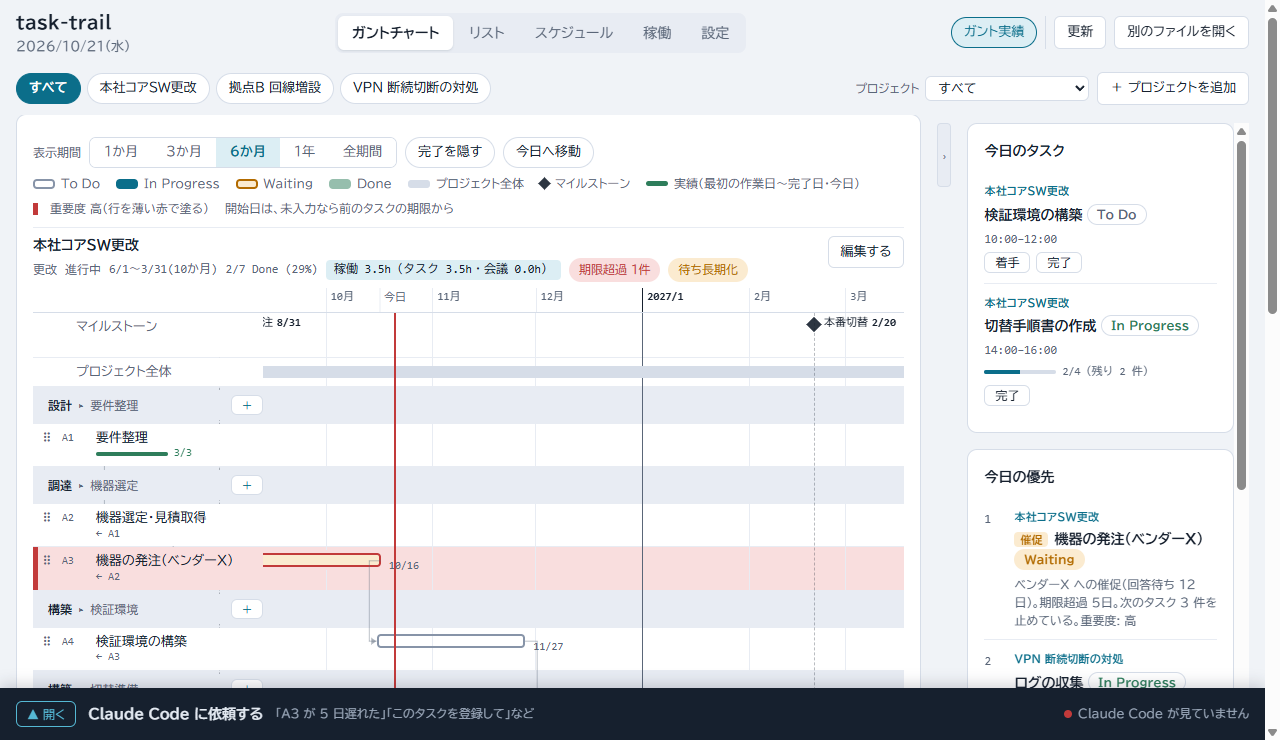
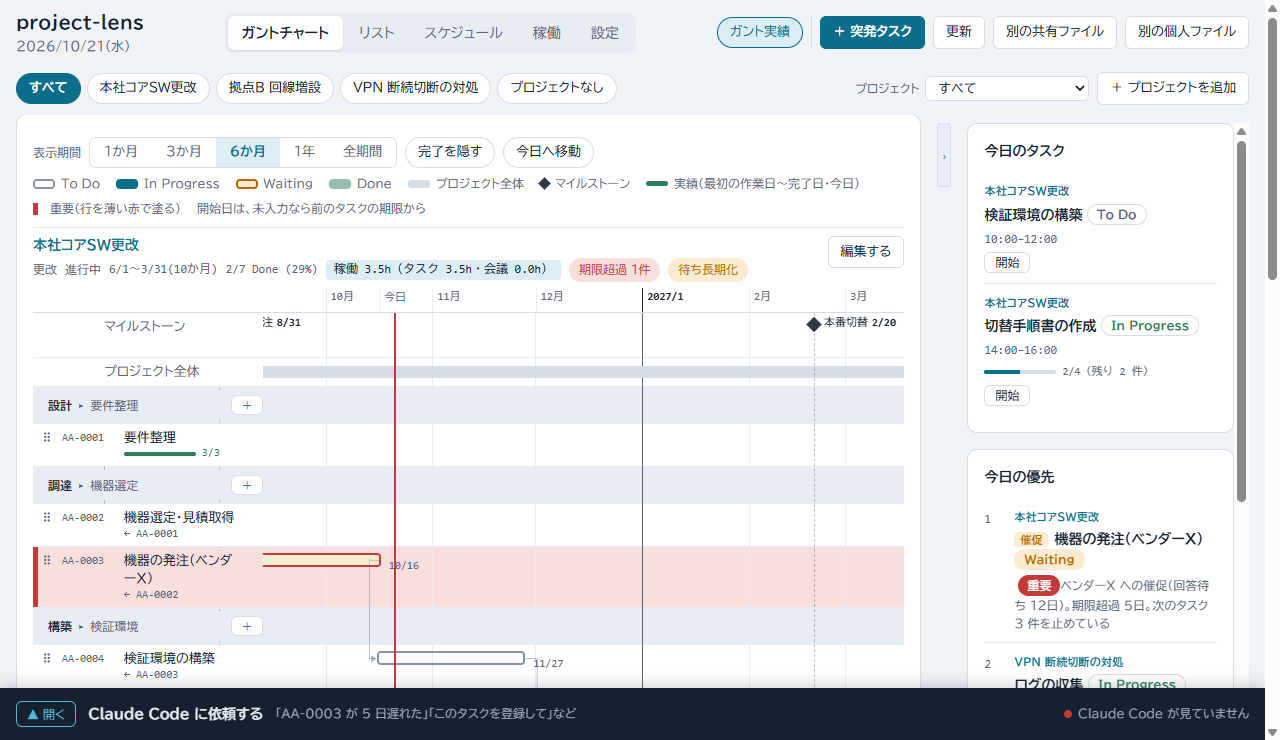
feat: 今日のタスクの「着手」「完了」を、実績を記録する「開始」「終了」に替える

diff --git a/plugins/project-lens/assets/project-lens.html b/plugins/project-lens/assets/project-lens.html
@@ -1179,7 +1179,7 @@ return { taskStart, ganttRows, ganttLayout, timeTicks, projectProgress, taskFlag
 })();
 
 /* src/core/sessions.js */
-const { LAST_END, allSessions, sessionKind, addSession, moveSession, resizeSession, confirmSession, removeSession, taskActual, runningPlanned, futurePlanned } = (() => {
+const { LAST_END, allSessions, sessionKind, addSession, moveSession, resizeSession, confirmSession, removeSession, taskActual, runningActual, runningPlanned, futurePlanned } = (() => {
 // 作業枠（予定／実績）の規則。枠は「作業した時間の記録」で、タスクの状態は変えない。すべて不変更新。
 
 
@@ -1276,6 +1276,16 @@ function taskActual(data, taskId) {
   return { hours: minutes / 60, firstDate: actual.length ? actual.map((s) => s.date).sort()[0] : null, count: ss.length };
 }
 
+/**
+ * 実行中の実績の枠（今日のタスクの「開始」で作り、「終了」で終える枠）。今日の、このタスクの実績の枠のうち開始が最も遅いもので、
+ * 開始 ≦ 今 < 終了のときだけ、その枠を返す（ほかは null）。実行中かどうかはデータに持たず、時刻から決める
+ */
+function runningActual(data, taskId, now) {
+  const t = data.tasks.find((x) => x.id === taskId);
+  const last = (t?.sessions ?? []).filter((s) => s.kind === "actual" && s.date === now.date).sort((a, b) => a.start.localeCompare(b.start)).at(-1);
+  return last && last.start <= now.time && now.time < last.end ? last : null;
+}
+
 /** 進行中（開始済みで未終了）の予定枠の ID。タスクを完了にしても残す枠（futurePlanned に含めない） */
 function runningPlanned(data, taskId, now) {
   const t = data.tasks.find((x) => x.id === taskId);
@@ -1290,7 +1300,7 @@ function futurePlanned(data, taskId, now) {
   return (t?.sessions ?? []).filter((s) => s.kind === "planned" && notStarted(s)).map((s) => s.id);
 }
 
-return { LAST_END, allSessions, sessionKind, addSession, moveSession, resizeSession, confirmSession, removeSession, taskActual, runningPlanned, futurePlanned };
+return { LAST_END, allSessions, sessionKind, addSession, moveSession, resizeSession, confirmSession, removeSession, taskActual, runningActual, runningPlanned, futurePlanned };
 })();
 
 /* src/core/impact.js */
@@ -2479,7 +2489,7 @@ return { depPath, depMarkup, drawDeps, focusDeps };
 })();
 
 /* src/ui/edit.js */
-const { predecessorCandidates, updateTask, addChecklistItem, updateChecklistItem, removeChecklistItem, moveChecklistItem, checkAllChecklist, newChecklist, updateProject, addMilestone, updateMilestone, deleteMilestone, moveMilestone, moveTaskDates, addPredecessor, moveTask, moveToProject, moveProjectDates, nextProjectId, nextTaskId, spawnNextRepeat, duplicateTask, addTaskQuick, addUrgentTask, addTask, deleteTask, updateSettings, addHoliday, holidayRangeDays, addHolidayRange, removeHoliday, addWorkday, removeWorkday, addProject, deleteProject } = (() => {
+const { predecessorCandidates, updateTask, addChecklistItem, updateChecklistItem, removeChecklistItem, moveChecklistItem, checkAllChecklist, newChecklist, updateProject, addMilestone, updateMilestone, deleteMilestone, moveMilestone, moveTaskDates, addPredecessor, moveTask, moveToProject, moveProjectDates, nextProjectId, nextTaskId, spawnNextRepeat, duplicateTask, addTaskQuick, addUrgentTask, startActual, stopActual, addTask, deleteTask, updateSettings, addHoliday, holidayRangeDays, addHolidayRange, removeHoliday, addWorkday, removeWorkday, addProject, deleteProject } = (() => {
 // 画面からの編集（追加・削除・更新）。すべて不変更新で、不正な入力は例外にする（呼び出し側が理由を表示する）。
 
 
@@ -2865,6 +2875,37 @@ function addUrgentTask(data, { title, projectId, date, start, minutes }) {
   return { data: r.data, id: t.id, ...(r.warning && { warning: r.warning }) };
 }
 
+/**
+ * 今日のタスクの「開始」: 今の時刻（分）から、このタスクの実績の枠を作り、To Do・Waiting なら In Progress にする（updateTask の規則で、待ち先は外れる）。
+ * 今の時刻にかかる、このタスクの予定の枠があれば、その枠を実績にして開始を今にする（終了は予定のまま）。無ければ新しい実績の枠を作る。
+ * 実行中（runningActual）の目印は「終了が今より後」なので、新しい枠の終了は仮に、その日の次の枠・会議（参加しないものを除く）の開始か 23:59 の早いほう（最短 15 分）にする。
+ * 置けないとき（ほかの枠との重なり・休みの日・23:59 を超える）と、すでに実行中のときは Error
+ */
+function startActual(data, taskId, now) {
+  if (runningActual(data, taskId, now)) throw new Error(`${taskId} の実績は、すでに開始しています`);
+  const toActual = (d, sid, patch) => ({ ...d, tasks: d.tasks.map((t) => (t.id === taskId ? { ...t, sessions: t.sessions.map((s) => (s.id === sid ? { ...s, ...patch, kind: "actual" } : s)) } : t)) });
+  const inProgress = (d) => (["To Do", "Waiting"].includes(d.tasks.find((t) => t.id === taskId).status) ? updateTask(d, taskId, { status: "In Progress" }, now.date) : d);
+  // 今の時刻にかかる、このタスクの予定の枠があれば、新しい枠を作らず、その枠を実績にして開始を今にする（予定どおりに始めた、の形）
+  const own = (data.tasks.find((t) => t.id === taskId)?.sessions ?? []).find((s) => s.kind === "planned" && s.date === now.date && s.start <= now.time && now.time < s.end);
+  if (own) return { data: inProgress(toActual(data, own.id, { start: now.time })), sessionId: own.id };
+  const st = toMin(now.time);
+  const next = [...allSessions(data), ...(data.events ?? []).filter((m) => !m.skip)].filter((x) => x.date === now.date && toMin(x.start) > st).map((x) => toMin(x.start));
+  const end = Math.max(st + 15, Math.min(LAST_END, ...next));
+  const r = addSession(data, taskId, { date: now.date, start: now.time, end: toHHMM(end) }); // 23:59 を超える終了（24:00 以降）は、addSession が「終了は 23:59 まで」のエラーにする
+  if (r.error) throw new Error(r.error);
+  const sessionId = r.data.tasks.find((t) => t.id === taskId).sessions.at(-1).id;
+  return { data: inProgress(toActual(r.data, sessionId, {})), sessionId, ...(r.warning && { warning: r.warning }) };
+}
+
+/** 今日のタスクの「終了」: 実行中の実績の枠の終了を、今の時刻（分）にする。状態は変えない（完了は状態の欄で選ぶ）。実行中が無い・開始と同じ時刻は Error */
+function stopActual(data, taskId, now) {
+  const cur = runningActual(data, taskId, now);
+  if (!cur) throw new Error(`${taskId} に、実行中の実績の枠がありません`);
+  if (now.time <= cur.start) throw new Error("開始と同じ時刻には終了できません（1 分以上たってから押してください）");
+  const tasks = data.tasks.map((t) => (t.id === taskId ? { ...t, sessions: t.sessions.map((s) => (s.id === cur.id ? { ...s, end: now.time } : s)) } : t));
+  return { data: { ...data, tasks }, start: cur.start, end: now.time, minutes: toMin(now.time) - toMin(cur.start) };
+}
+
 function addTask(data, task) {
   if (!data.projects.some((p) => p.id === task.projectId)) throw new Error(`プロジェクト ${task.projectId} がありません`);
   const title = String(task.title ?? "").trim();
@@ -2990,7 +3031,7 @@ function deleteProject(data, projectId) {
   return { ...data, settings, events, ...(inbox ? { inbox } : {}), projects: data.projects.filter((p) => p.id !== projectId), tasks: data.tasks.filter((t) => t.projectId !== projectId) };
 }
 
-return { predecessorCandidates, updateTask, addChecklistItem, updateChecklistItem, removeChecklistItem, moveChecklistItem, checkAllChecklist, newChecklist, updateProject, addMilestone, updateMilestone, deleteMilestone, moveMilestone, moveTaskDates, addPredecessor, moveTask, moveToProject, moveProjectDates, nextProjectId, nextTaskId, spawnNextRepeat, duplicateTask, addTaskQuick, addUrgentTask, addTask, deleteTask, updateSettings, addHoliday, holidayRangeDays, addHolidayRange, removeHoliday, addWorkday, removeWorkday, addProject, deleteProject };
+return { predecessorCandidates, updateTask, addChecklistItem, updateChecklistItem, removeChecklistItem, moveChecklistItem, checkAllChecklist, newChecklist, updateProject, addMilestone, updateMilestone, deleteMilestone, moveMilestone, moveTaskDates, addPredecessor, moveTask, moveToProject, moveProjectDates, nextProjectId, nextTaskId, spawnNextRepeat, duplicateTask, addTaskQuick, addUrgentTask, startActual, stopActual, addTask, deleteTask, updateSettings, addHoliday, holidayRangeDays, addHolidayRange, removeHoliday, addWorkday, removeWorkday, addProject, deleteProject };
 })();
 
 /* src/ui/donecheck.js */
@@ -3245,12 +3286,12 @@ const PILL = { "To Do": "off", "In Progress": "ok", Waiting: "wait", Done: "done
 const IMP_BADGE = `<span class="impbadge">重要</span>`;
 const statusPill = (t) => `<span class="pill ${PILL[t.status] ?? "off"}">${esc(t.status)}</span>`;
 
-/** 着手（To Do・Waiting のとき）と完了（Done・Cancelled 以外）のボタン。今日のタスクが使う */
-function statusButtons(t) {
-  const btn = (status, label) => `<button class="btn" data-setstatus="${esc(t.id)}|${status}" aria-label="${esc(t.id)} を${label}にする">${label}</button>`;
-  const start = t.status === "To Do" || t.status === "Waiting" ? btn("In Progress", "着手") : "";
-  const done = !isClosed(t) ? btn("Done", "完了") : "";
-  return start || done ? `<span class="bb">${start}${done}</span>` : "";
+/** 実績を記録するボタン。実行中の実績の枠（runningActual）があれば「終了」、無ければ「開始」。今日のタスクの、終わっていないタスクの行に出す */
+function recordButton(data, t, now) {
+  const id = esc(t.id);
+  return runningActual(data, t.id, now)
+    ? `<span class="bb"><button class="btn" data-rec-end="${id}" aria-label="${id} の実績を終了する（今の時刻で枠を終える）">終了</button></span>`
+    : `<span class="bb"><button class="btn" data-rec-start="${id}" aria-label="${id} の実績を開始する（今の時刻から枠を作る）">開始</button></span>`;
 }
 
 /** Done・Cancelled にする前の確認（今日のタスクの行と、リストの状態の欄が使う）。
@@ -3275,15 +3316,17 @@ function todayList(data, today) {
 const todayTaskIds = (data, today) => todayList(data, today).map((r) => r.t.id);
 
 /** 今日のタスク。今日に枠が無ければ空文字
- *  @param opts.pendingDone  未来の予定の枠を解除する確認待ち { id, status, n }（その行に確認を出す） */
+ *  @param opts.pendingDone  未来の予定の枠を解除する確認待ち { id, status, n }（その行に確認を出す）
+ *  @param opts.now          {date, time} 現在時刻（「開始」「終了」のどちらを出すかに使う。省略は today の 00:00） */
 function renderTodayTasks(data, today, opts = {}) {
   const rows = todayList(data, today);
+  const now = opts.now ?? { date: today, time: "00:00" };
   if (!rows.length) return "";
   const items = rows.map(({ t, slots }) => {
     const proj = esc(data.projects.find((p) => p.id === t.projectId)?.name ?? (t.projectId == null ? "プロジェクトなし" : ""));
     const times = slots.map((s) => esc(`${s.start}–${s.end}`)).join("、");
     const ask = opts.pendingDone?.id === t.id ? doneAskHtml(opts.pendingDone) : "";
-    return `<li data-today="${esc(t.id)}"${isClosed(t) ? ' class="closed"' : ""}><span class="pj">${proj}</span><span class="t">${esc(t.title)} ${statusPill(t)}${isImportantMark(t) ? IMP_BADGE : ""}</span><span class="why mono">${times}</span>${isClosed(t) ? "" : checkMeterHtml(t, { remain: true })}${isClosed(t) ? "" : statusButtons(t)}${ask}</li>`;
+    return `<li data-today="${esc(t.id)}"${isClosed(t) ? ' class="closed"' : ""}><span class="pj">${proj}</span><span class="t">${esc(t.title)} ${statusPill(t)}${isImportantMark(t) ? IMP_BADGE : ""}</span><span class="why mono">${times}</span>${isClosed(t) ? "" : checkMeterHtml(t, { remain: true })}${isClosed(t) ? "" : recordButton(data, t, now)}${ask}</li>`;
   }).join("");
   return `<section class="panel todaytasks" aria-labelledby="h-td"><h2 id="h-td">今日のタスク</h2><ul class="rank tl">${items}</ul></section>`;
 }
@@ -4061,7 +4104,7 @@ function renderProjects(data, today, opts = {}) {
   // チップはプロジェクトの数だけ並ぶので、1 行に収めて横にスクロールする(折り返すと、固定の行が高くなり、表が見えなくなる)。プロジェクト名のプルダウンと追加ボタンは、スクロールの外
   return `<div class="toolbar ptool"><div class="chips-row" role="group" aria-label="プロジェクトで絞り込み">${chips}</div>
     <div class="ptool-end">${pick}${addBtn}</div></div>
-    <div class="cols${showPrio ? "" : " one"}">${body}${renderSideToggle(showPrio)}${showPrio ? renderSide(data, today, { sched: false, pendingDone: opts.pendingDone }) : ""}</div>${pop}`;
+    <div class="cols${showPrio ? "" : " one"}">${body}${renderSideToggle(showPrio)}${showPrio ? renderSide(data, today, { sched: false, pendingDone: opts.pendingDone, now: opts.now }) : ""}</div>${pop}`;
 }
 
 return { statusCellHtml, renderProjects };
@@ -4253,7 +4296,7 @@ function renderSchedule(data, today, opts) {
     <div class="summary"><span>実績 <b class="mono">${hours.toFixed(1)}時間</b></span><span>予定 <b class="mono">${planned}件</b></span>${unconf ? `<span class="pill wait">未確認 ${unconf}件（作業枠 ${unconfS}・会議 ${unconfM}）</span><button class="btn" data-confirmall>未確認をすべて実績にする</button>` : ""}<button class="btn danger" data-delsel ${delOk ? "" : "disabled"}>${delLabel}</button></div>`;
   const et = selSess && opts.taskEdit ? data.tasks.find((t) => t.id === opts.taskEdit.id) : null; // 編集欄は、表示中の枠を選んでいる間だけ出す（枠を選ぶと、そのタスクの編集欄になる）
   const editPanel = et ? renderTaskEditPanel(data, opts.taskEdit, statusCellHtml(et, { ...opts, todayIds: opts.showPrio === false ? new Set() : new Set(todayTaskIds(data, today)) }, taskFlags(et, today, data.settings).includes("overdue"))) : "";
-  return `<div class="cols${opts.showPrio === false ? " one" : ""}"><section class="panel">${nav}<div id="mtgslot">${meetingForm(data, { mtgDraft: opts.mtgDraft, selMtg: selMtg?.id })}${urgentForm(data, opts.urgentDraft)}${editPanel}</div><div id="calslot">${renderCalendar(data, today, calOpts)}</div></section>${renderSideToggle(opts.showPrio !== false)}${opts.showPrio === false ? "" : renderSide(data, today, { sched: true, pendingDone: opts.pendingDone })}</div>`;
+  return `<div class="cols${opts.showPrio === false ? " one" : ""}"><section class="panel">${nav}<div id="mtgslot">${meetingForm(data, { mtgDraft: opts.mtgDraft, selMtg: selMtg?.id })}${urgentForm(data, opts.urgentDraft)}${editPanel}</div><div id="calslot">${renderCalendar(data, today, calOpts)}</div></section>${renderSideToggle(opts.showPrio !== false)}${opts.showPrio === false ? "" : renderSide(data, today, { sched: true, pendingDone: opts.pendingDone, now })}</div>`;
 }
 
 
@@ -4433,7 +4476,7 @@ function renderBody() {
   const { date: today } = clock();
   if (!S.data) return startScreen();
   if (S.screen === "gantt" || S.screen === "list") {
-    return renderProjects(S.data, today, { filter: S.filter, view: S.screen, window: S.gwin, hideDone: S.hideDone, askDel: S.askDel, askDelProject: S.askDelProject, pendingWait: S.pendingWait, pendingDone: S.pendingDone, checkOpen: S.checkOpen, addAt: S.addAt, tpop: S.screen === "gantt" ? S.tpop : null, showPrio: S.prefs.showPrio, showActual: S.prefs.showActual });
+    return renderProjects(S.data, today, { filter: S.filter, view: S.screen, window: S.gwin, hideDone: S.hideDone, askDel: S.askDel, askDelProject: S.askDelProject, pendingWait: S.pendingWait, pendingDone: S.pendingDone, checkOpen: S.checkOpen, addAt: S.addAt, tpop: S.screen === "gantt" ? S.tpop : null, showPrio: S.prefs.showPrio, showActual: S.prefs.showActual, now: clock() });
   }
   if (S.screen === "settings") return renderSettings(S.data, today, { ruleError: S.ruleError, closed: S.settingsClosed });
   if (S.screen === "workload") return renderWorkload(S.data, today, { period: S.wperiod, date: S.wdate, now: clock() });
@@ -4953,8 +4996,18 @@ view.addEventListener("click", (e) => {
   if (q("[data-wtoday]")) { S.wdate = today; render(); return; }
 
   /* スケジュール画面 */
-  const ss = q("[data-setstatus]");
-  if (ss) { const [id, status] = ss.dataset.setstatus.split("|"); changeStatus(id, status); return; }
+  const rs = q("[data-rec-start]");
+  if (rs) {
+    const id = rs.dataset.recStart; let r;
+    if (apply((d) => { r = startActual(d, id, now); return r.data; }, null)) toast(`${id} の実績を開始しました（${now.time}）${r.warning ? `(${r.warning})` : ""}`);
+    return;
+  }
+  const re = q("[data-rec-end]");
+  if (re) {
+    const id = re.dataset.recEnd; let r;
+    if (apply((d) => { r = stopActual(d, id, now); return r.data; }, null)) toast(`${id} の実績を終了しました（${r.start}〜${r.end}・${r.minutes} 分）`);
+    return;
+  }
   const sv = q("[data-sview]"); if (sv) { S.sview = sv.dataset.sview; render(); return; }
   const nv = q("[data-nav]"); if (nv) { S.sdate = addDays(S.sdate, +nv.dataset.nav); render(); return; }
   if (q("[data-sgoto]")) { S.sdate = today; render(); return; }
@@ -5015,7 +5068,7 @@ function submitUrgent() {
   }
 }
 
-/** 状態の変更（リストの select と、スケジュール画面の着手・完了ボタンが共用）。待ち先・未来の予定枠の確認が要るときは、確認待ちにする */
+/** 状態の変更（リストの select・編集の窓・スケジュールの編集欄）。待ち先・未来の予定枠の確認が要るときは、確認待ちにする */
 function changeStatus(id, status) {
   const t = S.data.tasks.find((x) => x.id === id);
   if (status === "Waiting" && !t.waitingOn?.party) { S.pendingWait = id; S.focusSel = `[data-waitparty="${id}"]`; render(); return; }

diff --git a/plugins/project-lens/src/ui/edit.js b/plugins/project-lens/src/ui/edit.js
@@ -3,7 +3,7 @@ import { addDays, diffDays, isDate, isWeekend, toMin, toHHMM, nowLocal } from ".
 import { calendarOf } from "../core/holidays.js";
 import { taskStart } from "../core/metrics.js";
 import { groupSections } from "../core/groups.js";
-import { addSession } from "../core/sessions.js";
+import { addSession, allSessions, runningActual, LAST_END } from "../core/sessions.js";
 import { nextChecklistId } from "../core/checklist.js";
 import { isRepeat, nextRepeatDue } from "../core/repeat.js";
 import { HOLIDAY_KINDS } from "../core/schema.js";
@@ -381,6 +381,37 @@ export function addUrgentTask(data, { title, projectId, date, start, minutes }) 
   const r = addSession({ ...data, tasks: [...data.tasks, t] }, t.id, { date, start, end: toHHMM(toMin(start) + minutes) });
   if (r.error) throw new Error(r.error);
   return { data: r.data, id: t.id, ...(r.warning && { warning: r.warning }) };
+}
+
+/**
+ * 今日のタスクの「開始」: 今の時刻（分）から、このタスクの実績の枠を作り、To Do・Waiting なら In Progress にする（updateTask の規則で、待ち先は外れる）。
+ * 今の時刻にかかる、このタスクの予定の枠があれば、その枠を実績にして開始を今にする（終了は予定のまま）。無ければ新しい実績の枠を作る。
+ * 実行中（runningActual）の目印は「終了が今より後」なので、新しい枠の終了は仮に、その日の次の枠・会議（参加しないものを除く）の開始か 23:59 の早いほう（最短 15 分）にする。
+ * 置けないとき（ほかの枠との重なり・休みの日・23:59 を超える）と、すでに実行中のときは Error
+ */
+export function startActual(data, taskId, now) {
+  if (runningActual(data, taskId, now)) throw new Error(`${taskId} の実績は、すでに開始しています`);
+  const toActual = (d, sid, patch) => ({ ...d, tasks: d.tasks.map((t) => (t.id === taskId ? { ...t, sessions: t.sessions.map((s) => (s.id === sid ? { ...s, ...patch, kind: "actual" } : s)) } : t)) });
+  const inProgress = (d) => (["To Do", "Waiting"].includes(d.tasks.find((t) => t.id === taskId).status) ? updateTask(d, taskId, { status: "In Progress" }, now.date) : d);
+  // 今の時刻にかかる、このタスクの予定の枠があれば、新しい枠を作らず、その枠を実績にして開始を今にする（予定どおりに始めた、の形）
+  const own = (data.tasks.find((t) => t.id === taskId)?.sessions ?? []).find((s) => s.kind === "planned" && s.date === now.date && s.start <= now.time && now.time < s.end);
+  if (own) return { data: inProgress(toActual(data, own.id, { start: now.time })), sessionId: own.id };
+  const st = toMin(now.time);
+  const next = [...allSessions(data), ...(data.events ?? []).filter((m) => !m.skip)].filter((x) => x.date === now.date && toMin(x.start) > st).map((x) => toMin(x.start));
+  const end = Math.max(st + 15, Math.min(LAST_END, ...next));
+  const r = addSession(data, taskId, { date: now.date, start: now.time, end: toHHMM(end) }); // 23:59 を超える終了（24:00 以降）は、addSession が「終了は 23:59 まで」のエラーにする
+  if (r.error) throw new Error(r.error);
+  const sessionId = r.data.tasks.find((t) => t.id === taskId).sessions.at(-1).id;
+  return { data: inProgress(toActual(r.data, sessionId, {})), sessionId, ...(r.warning && { warning: r.warning }) };
+}
+
+/** 今日のタスクの「終了」: 実行中の実績の枠の終了を、今の時刻（分）にする。状態は変えない（完了は状態の欄で選ぶ）。実行中が無い・開始と同じ時刻は Error */
+export function stopActual(data, taskId, now) {
+  const cur = runningActual(data, taskId, now);
+  if (!cur) throw new Error(`${taskId} に、実行中の実績の枠がありません`);
+  if (now.time <= cur.start) throw new Error("開始と同じ時刻には終了できません（1 分以上たってから押してください）");
+  const tasks = data.tasks.map((t) => (t.id === taskId ? { ...t, sessions: t.sessions.map((s) => (s.id === cur.id ? { ...s, end: now.time } : s)) } : t));
+  return { data: { ...data, tasks }, start: cur.start, end: now.time, minutes: toMin(now.time) - toMin(cur.start) };
 }
 
 export function addTask(data, task) {

diff --git a/plugins/project-lens/src/ui/views/prio.js b/plugins/project-lens/src/ui/views/prio.js
@@ -1,6 +1,6 @@
 // 「今日のタスク」「今日の優先」パネル（プロジェクト画面・スケジュール画面で共通。右の列に並ぶ）
 import { rankTasks } from "../../core/schedule.js";
-import { taskActual } from "../../core/sessions.js";
+import { taskActual, runningActual } from "../../core/sessions.js";
 import { isClosed, isImportantMark } from "../../core/schema.js";
 import { esc, checkMeterHtml } from "../common.js";
 
@@ -8,12 +8,12 @@ const PILL = { "To Do": "off", "In Progress": "ok", Waiting: "wait", Done: "done
 const IMP_BADGE = `<span class="impbadge">重要</span>`;
 const statusPill = (t) => `<span class="pill ${PILL[t.status] ?? "off"}">${esc(t.status)}</span>`;
 
-/** 着手（To Do・Waiting のとき）と完了（Done・Cancelled 以外）のボタン。今日のタスクが使う */
-function statusButtons(t) {
-  const btn = (status, label) => `<button class="btn" data-setstatus="${esc(t.id)}|${status}" aria-label="${esc(t.id)} を${label}にする">${label}</button>`;
-  const start = t.status === "To Do" || t.status === "Waiting" ? btn("In Progress", "着手") : "";
-  const done = !isClosed(t) ? btn("Done", "完了") : "";
-  return start || done ? `<span class="bb">${start}${done}</span>` : "";
+/** 実績を記録するボタン。実行中の実績の枠（runningActual）があれば「終了」、無ければ「開始」。今日のタスクの、終わっていないタスクの行に出す */
+function recordButton(data, t, now) {
+  const id = esc(t.id);
+  return runningActual(data, t.id, now)
+    ? `<span class="bb"><button class="btn" data-rec-end="${id}" aria-label="${id} の実績を終了する（今の時刻で枠を終える）">終了</button></span>`
+    : `<span class="bb"><button class="btn" data-rec-start="${id}" aria-label="${id} の実績を開始する（今の時刻から枠を作る）">開始</button></span>`;
 }
 
 /** Done・Cancelled にする前の確認（今日のタスクの行と、リストの状態の欄が使う）。
@@ -38,15 +38,17 @@ function todayList(data, today) {
 export const todayTaskIds = (data, today) => todayList(data, today).map((r) => r.t.id);
 
 /** 今日のタスク。今日に枠が無ければ空文字
- *  @param opts.pendingDone  未来の予定の枠を解除する確認待ち { id, status, n }（その行に確認を出す） */
+ *  @param opts.pendingDone  未来の予定の枠を解除する確認待ち { id, status, n }（その行に確認を出す）
+ *  @param opts.now          {date, time} 現在時刻（「開始」「終了」のどちらを出すかに使う。省略は today の 00:00） */
 export function renderTodayTasks(data, today, opts = {}) {
   const rows = todayList(data, today);
+  const now = opts.now ?? { date: today, time: "00:00" };
   if (!rows.length) return "";
   const items = rows.map(({ t, slots }) => {
     const proj = esc(data.projects.find((p) => p.id === t.projectId)?.name ?? (t.projectId == null ? "プロジェクトなし" : ""));
     const times = slots.map((s) => esc(`${s.start}–${s.end}`)).join("、");
     const ask = opts.pendingDone?.id === t.id ? doneAskHtml(opts.pendingDone) : "";
-    return `<li data-today="${esc(t.id)}"${isClosed(t) ? ' class="closed"' : ""}><span class="pj">${proj}</span><span class="t">${esc(t.title)} ${statusPill(t)}${isImportantMark(t) ? IMP_BADGE : ""}</span><span class="why mono">${times}</span>${isClosed(t) ? "" : checkMeterHtml(t, { remain: true })}${isClosed(t) ? "" : statusButtons(t)}${ask}</li>`;
+    return `<li data-today="${esc(t.id)}"${isClosed(t) ? ' class="closed"' : ""}><span class="pj">${proj}</span><span class="t">${esc(t.title)} ${statusPill(t)}${isImportantMark(t) ? IMP_BADGE : ""}</span><span class="why mono">${times}</span>${isClosed(t) ? "" : checkMeterHtml(t, { remain: true })}${isClosed(t) ? "" : recordButton(data, t, now)}${ask}</li>`;
   }).join("");
   return `<section class="panel todaytasks" aria-labelledby="h-td"><h2 id="h-td">今日のタスク</h2><ul class="rank tl">${items}</ul></section>`;
 }

diff --git a/plugins/project-lens/src/ui/app.js b/plugins/project-lens/src/ui/app.js
@@ -49,7 +49,7 @@ function renderBody() {
   const { date: today } = clock();
   if (!S.data) return startScreen();
   if (S.screen === "gantt" || S.screen === "list") {
-    return renderProjects(S.data, today, { filter: S.filter, view: S.screen, window: S.gwin, hideDone: S.hideDone, askDel: S.askDel, askDelProject: S.askDelProject, pendingWait: S.pendingWait, pendingDone: S.pendingDone, checkOpen: S.checkOpen, addAt: S.addAt, tpop: S.screen === "gantt" ? S.tpop : null, showPrio: S.prefs.showPrio, showActual: S.prefs.showActual });
+    return renderProjects(S.data, today, { filter: S.filter, view: S.screen, window: S.gwin, hideDone: S.hideDone, askDel: S.askDel, askDelProject: S.askDelProject, pendingWait: S.pendingWait, pendingDone: S.pendingDone, checkOpen: S.checkOpen, addAt: S.addAt, tpop: S.screen === "gantt" ? S.tpop : null, showPrio: S.prefs.showPrio, showActual: S.prefs.showActual, now: clock() });
   }
   if (S.screen === "settings") return renderSettings(S.data, today, { ruleError: S.ruleError, closed: S.settingsClosed });
   if (S.screen === "workload") return renderWorkload(S.data, today, { period: S.wperiod, date: S.wdate, now: clock() });
@@ -569,8 +569,18 @@ view.addEventListener("click", (e) => {
   if (q("[data-wtoday]")) { S.wdate = today; render(); return; }
 
   /* スケジュール画面 */
-  const ss = q("[data-setstatus]");
-  if (ss) { const [id, status] = ss.dataset.setstatus.split("|"); changeStatus(id, status); return; }
+  const rs = q("[data-rec-start]");
+  if (rs) {
+    const id = rs.dataset.recStart; let r;
+    if (apply((d) => { r = startActual(d, id, now); return r.data; }, null)) toast(`${id} の実績を開始しました（${now.time}）${r.warning ? `(${r.warning})` : ""}`);
+    return;
+  }
+  const re = q("[data-rec-end]");
+  if (re) {
+    const id = re.dataset.recEnd; let r;
+    if (apply((d) => { r = stopActual(d, id, now); return r.data; }, null)) toast(`${id} の実績を終了しました（${r.start}〜${r.end}・${r.minutes} 分）`);
+    return;
+  }
   const sv = q("[data-sview]"); if (sv) { S.sview = sv.dataset.sview; render(); return; }
   const nv = q("[data-nav]"); if (nv) { S.sdate = addDays(S.sdate, +nv.dataset.nav); render(); return; }
   if (q("[data-sgoto]")) { S.sdate = today; render(); return; }
@@ -631,7 +641,7 @@ function submitUrgent() {
   }
 }
 
-/** 状態の変更（リストの select と、スケジュール画面の着手・完了ボタンが共用）。待ち先・未来の予定枠の確認が要るときは、確認待ちにする */
+/** 状態の変更（リストの select・編集の窓・スケジュールの編集欄）。待ち先・未来の予定枠の確認が要るときは、確認待ちにする */
 function changeStatus(id, status) {
   const t = S.data.tasks.find((x) => x.id === id);
   if (status === "Waiting" && !t.waitingOn?.party) { S.pendingWait = id; S.focusSel = `[data-waitparty="${id}"]`; render(); return; }

diff --git a/plugins/project-lens/src/ui/views/schedule.js b/plugins/project-lens/src/ui/views/schedule.js
@@ -182,6 +182,6 @@ export function renderSchedule(data, today, opts) {
     <div class="summary"><span>実績 <b class="mono">${hours.toFixed(1)}時間</b></span><span>予定 <b class="mono">${planned}件</b></span>${unconf ? `<span class="pill wait">未確認 ${unconf}件（作業枠 ${unconfS}・会議 ${unconfM}）</span><button class="btn" data-confirmall>未確認をすべて実績にする</button>` : ""}<button class="btn danger" data-delsel ${delOk ? "" : "disabled"}>${delLabel}</button></div>`;
   const et = selSess && opts.taskEdit ? data.tasks.find((t) => t.id === opts.taskEdit.id) : null; // 編集欄は、表示中の枠を選んでいる間だけ出す（枠を選ぶと、そのタスクの編集欄になる）
   const editPanel = et ? renderTaskEditPanel(data, opts.taskEdit, statusCellHtml(et, { ...opts, todayIds: opts.showPrio === false ? new Set() : new Set(todayTaskIds(data, today)) }, taskFlags(et, today, data.settings).includes("overdue"))) : "";
-  return `<div class="cols${opts.showPrio === false ? " one" : ""}"><section class="panel">${nav}<div id="mtgslot">${meetingForm(data, { mtgDraft: opts.mtgDraft, selMtg: selMtg?.id })}${urgentForm(data, opts.urgentDraft)}${editPanel}</div><div id="calslot">${renderCalendar(data, today, calOpts)}</div></section>${renderSideToggle(opts.showPrio !== false)}${opts.showPrio === false ? "" : renderSide(data, today, { sched: true, pendingDone: opts.pendingDone })}</div>`;
+  return `<div class="cols${opts.showPrio === false ? " one" : ""}"><section class="panel">${nav}<div id="mtgslot">${meetingForm(data, { mtgDraft: opts.mtgDraft, selMtg: selMtg?.id })}${urgentForm(data, opts.urgentDraft)}${editPanel}</div><div id="calslot">${renderCalendar(data, today, calOpts)}</div></section>${renderSideToggle(opts.showPrio !== false)}${opts.showPrio === false ? "" : renderSide(data, today, { sched: true, pendingDone: opts.pendingDone, now })}</div>`;
 }
 

diff --git a/plugins/project-lens/src/core/sessions.js b/plugins/project-lens/src/core/sessions.js
@@ -94,6 +94,16 @@ export function taskActual(data, taskId) {
   return { hours: minutes / 60, firstDate: actual.length ? actual.map((s) => s.date).sort()[0] : null, count: ss.length };
 }
 
+/**
+ * 実行中の実績の枠（今日のタスクの「開始」で作り、「終了」で終える枠）。今日の、このタスクの実績の枠のうち開始が最も遅いもので、
+ * 開始 ≦ 今 < 終了のときだけ、その枠を返す（ほかは null）。実行中かどうかはデータに持たず、時刻から決める
+ */
+export function runningActual(data, taskId, now) {
+  const t = data.tasks.find((x) => x.id === taskId);
+  const last = (t?.sessions ?? []).filter((s) => s.kind === "actual" && s.date === now.date).sort((a, b) => a.start.localeCompare(b.start)).at(-1);
+  return last && last.start <= now.time && now.time < last.end ? last : null;
+}
+
 /** 進行中（開始済みで未終了）の予定枠の ID。タスクを完了にしても残す枠（futurePlanned に含めない） */
 export function runningPlanned(data, taskId, now) {
   const t = data.tasks.find((x) => x.id === taskId);

diff --git a/plugins/project-lens/src/ui/views/project.js b/plugins/project-lens/src/ui/views/project.js
@@ -125,5 +125,5 @@ export function renderProjects(data, today, opts = {}) {
   // チップはプロジェクトの数だけ並ぶので、1 行に収めて横にスクロールする(折り返すと、固定の行が高くなり、表が見えなくなる)。プロジェクト名のプルダウンと追加ボタンは、スクロールの外
   return `<div class="toolbar ptool"><div class="chips-row" role="group" aria-label="プロジェクトで絞り込み">${chips}</div>
     <div class="ptool-end">${pick}${addBtn}</div></div>
-    <div class="cols${showPrio ? "" : " one"}">${body}${renderSideToggle(showPrio)}${showPrio ? renderSide(data, today, { sched: false, pendingDone: opts.pendingDone }) : ""}</div>${pop}`;
+    <div class="cols${showPrio ? "" : " one"}">${body}${renderSideToggle(showPrio)}${showPrio ? renderSide(data, today, { sched: false, pendingDone: opts.pendingDone, now: opts.now }) : ""}</div>${pop}`;
 }
